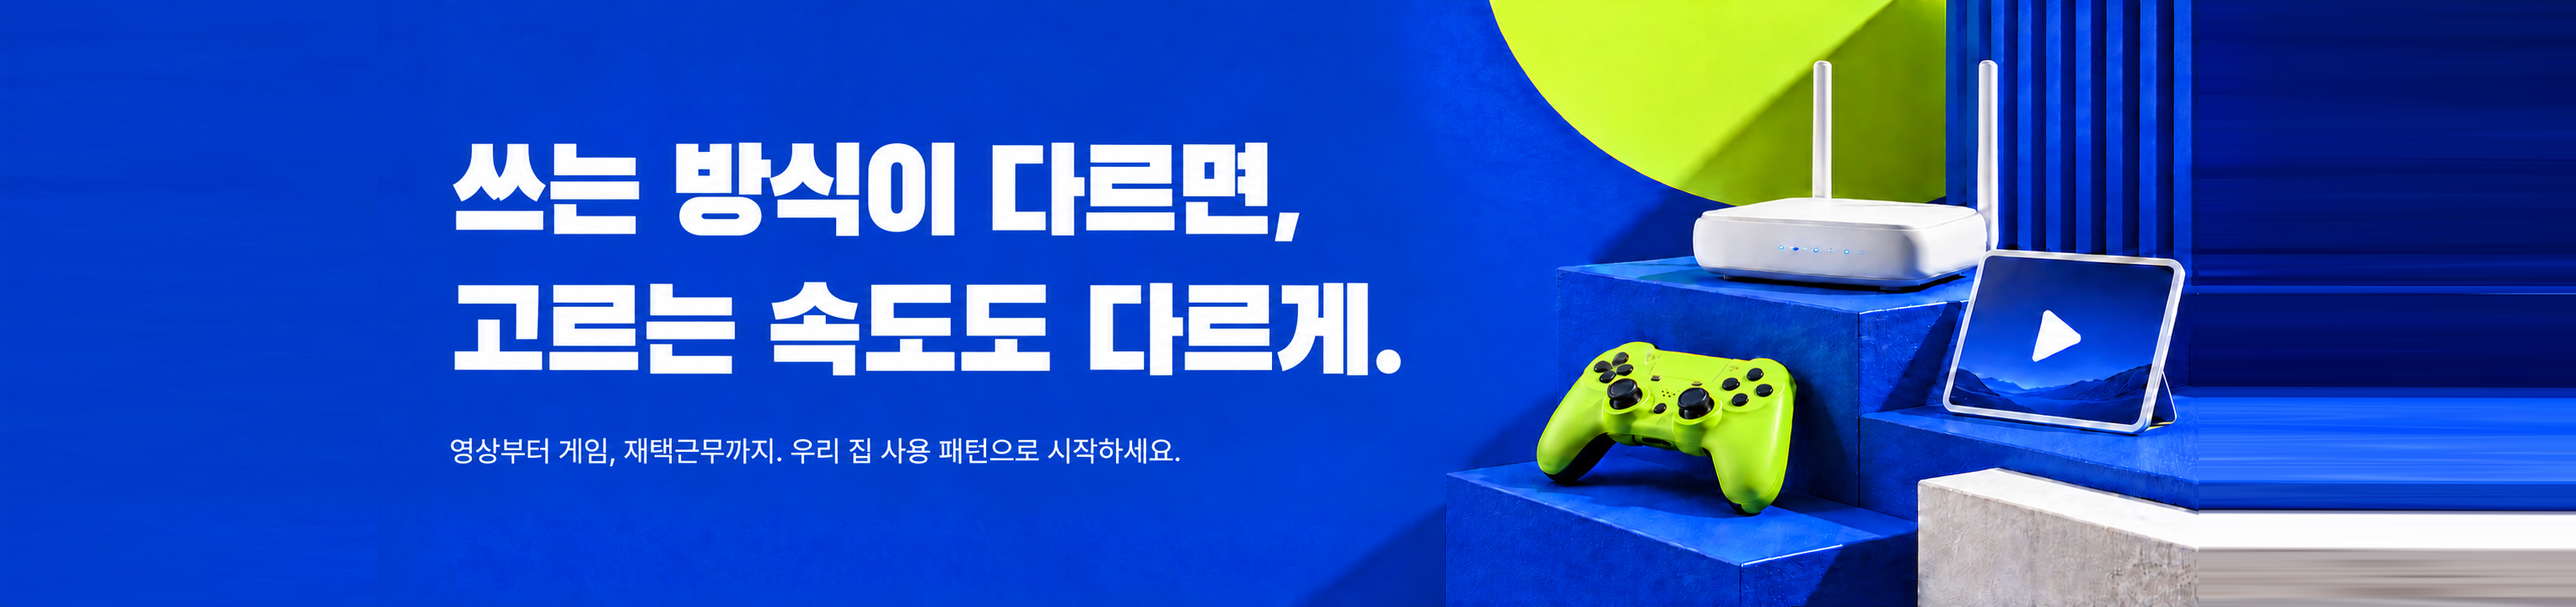
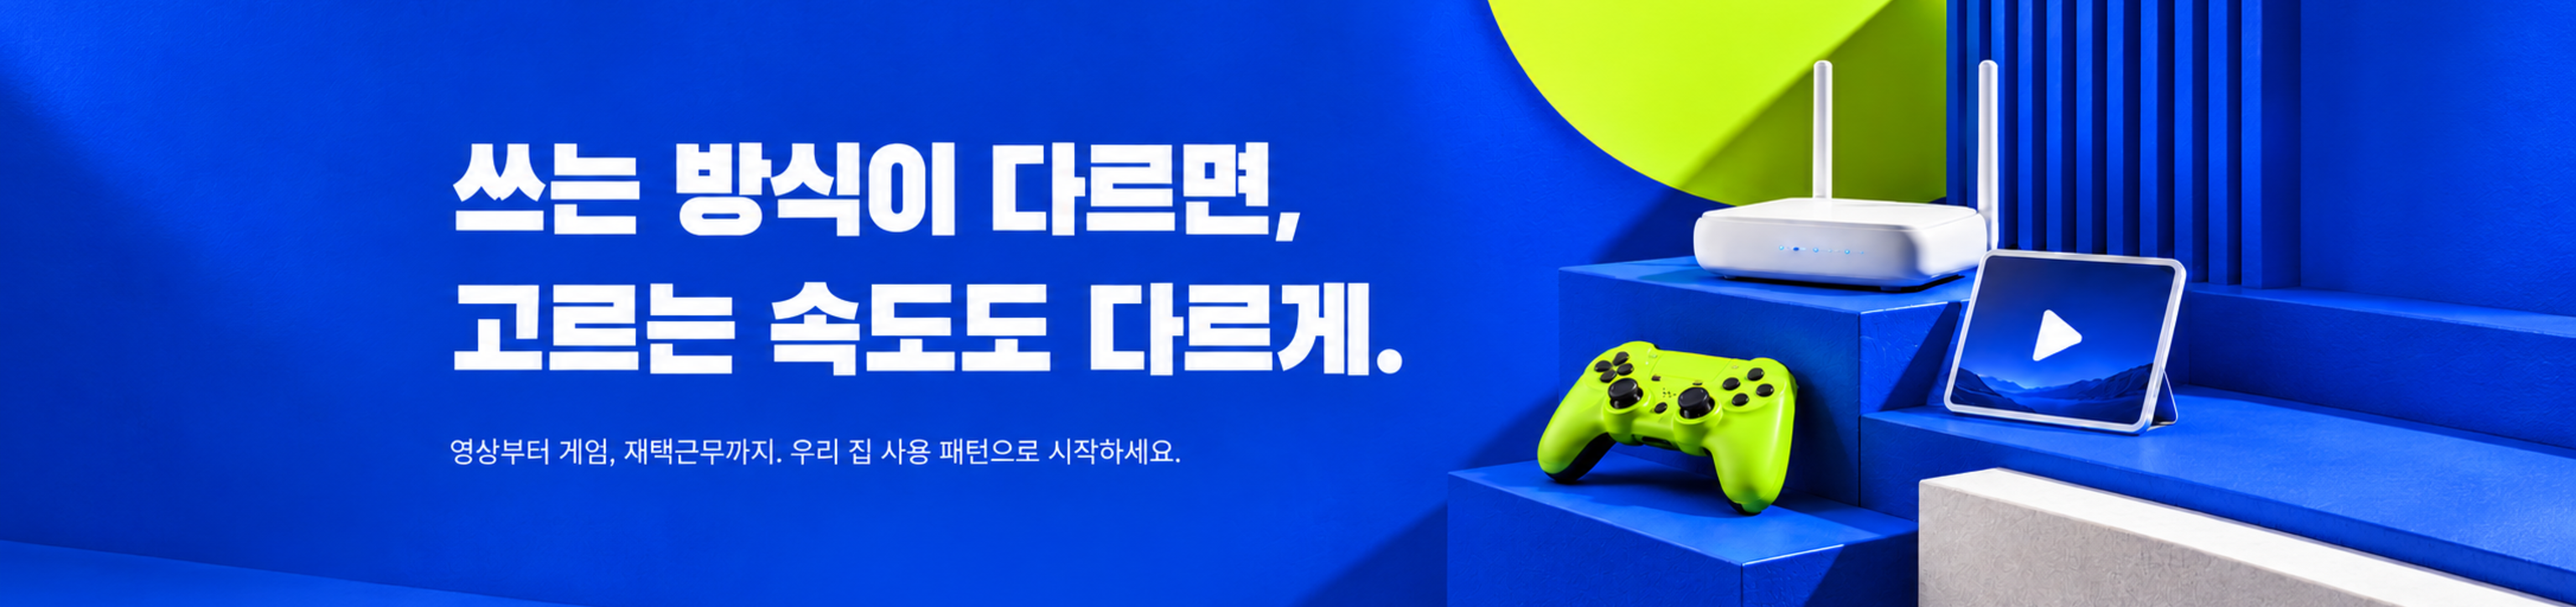
히어로 배너 이미지 수정본으로 교체

diff --git a/index.html b/index.html
@@ -65,16 +65,16 @@
     <div class="hs__track" id="hsTrack">
       <!-- 배너 이미지: images/hero-N.webp (PC 2880×976, 약 3:1) · hero-N-m.webp (모바일 1125×450). 같은 파일명으로 덮어쓰면 교체됨 -->
       <a class="hs__slide hs__slide--img" href="#matrix">
-        <img class="hs__bg" src="images/banner-1.webp?v=20261021b" alt="" aria-hidden="true">
-          <img src="images/banner-1.webp?v=20261021b" width="3072" height="724" alt="라이프스타일에 맞춘 속도 추천 배너">
+        <img class="hs__bg" src="images/banner-1.webp?v=20261021c" alt="" aria-hidden="true">
+          <img src="images/banner-1.webp?v=20261021c" width="3072" height="724" alt="라이프스타일에 맞춘 속도 추천 배너">
       </a>
       <button type="button" class="hs__slide hs__slide--img" data-open-apply>
-        <img class="hs__bg" src="images/banner-2.webp?v=20261021b" alt="" aria-hidden="true">
-          <img src="images/banner-2.webp?v=20261021b" width="3072" height="724" alt="인터넷·TV·휴대폰 결합 혜택 배너">
+        <img class="hs__bg" src="images/banner-2.webp?v=20261021c" alt="" aria-hidden="true">
+          <img src="images/banner-2.webp?v=20261021c" width="3072" height="724" alt="인터넷·TV·휴대폰 결합 혜택 배너">
       </button>
       <a class="hs__slide hs__slide--img" href="pages/review.html">
-        <img class="hs__bg" src="images/banner-3.webp?v=20261021b" alt="" aria-hidden="true">
-          <img src="images/banner-3.webp?v=20261021b" width="3072" height="724" alt="통신사 혜택 비교 배너">
+        <img class="hs__bg" src="images/banner-3.webp?v=20261021c" alt="" aria-hidden="true">
+          <img src="images/banner-3.webp?v=20261021c" width="3072" height="724" alt="통신사 혜택 비교 배너">
       </a>
     </div>
     <div class="hs__dots" id="hsDots" role="tablist" aria-label="배너 선택"></div>

diff --git a/internet.html b/internet.html
@@ -65,16 +65,16 @@
     <div class="hs__track" id="hsTrack">
       <!-- 배너 이미지: images/hero-N.webp (PC 2880×976, 약 3:1) · hero-N-m.webp (모바일 1125×450). 같은 파일명으로 덮어쓰면 교체됨 -->
       <a class="hs__slide hs__slide--img" href="#matrix">
-        <img class="hs__bg" src="images/banner-1.webp?v=20261021b" alt="" aria-hidden="true">
-          <img src="images/banner-1.webp?v=20261021b" width="3072" height="724" alt="라이프스타일에 맞춘 속도 추천 배너">
+        <img class="hs__bg" src="images/banner-1.webp?v=20261021c" alt="" aria-hidden="true">
+          <img src="images/banner-1.webp?v=20261021c" width="3072" height="724" alt="라이프스타일에 맞춘 속도 추천 배너">
       </a>
       <button type="button" class="hs__slide hs__slide--img" data-open-apply>
-        <img class="hs__bg" src="images/banner-2.webp?v=20261021b" alt="" aria-hidden="true">
-          <img src="images/banner-2.webp?v=20261021b" width="3072" height="724" alt="인터넷·TV·휴대폰 결합 혜택 배너">
+        <img class="hs__bg" src="images/banner-2.webp?v=20261021c" alt="" aria-hidden="true">
+          <img src="images/banner-2.webp?v=20261021c" width="3072" height="724" alt="인터넷·TV·휴대폰 결합 혜택 배너">
       </button>
       <a class="hs__slide hs__slide--img" href="pages/review.html">
-        <img class="hs__bg" src="images/banner-3.webp?v=20261021b" alt="" aria-hidden="true">
-          <img src="images/banner-3.webp?v=20261021b" width="3072" height="724" alt="통신사 혜택 비교 배너">
+        <img class="hs__bg" src="images/banner-3.webp?v=20261021c" alt="" aria-hidden="true">
+          <img src="images/banner-3.webp?v=20261021c" width="3072" height="724" alt="통신사 혜택 비교 배너">
       </a>
     </div>
     <div class="hs__dots" id="hsDots" role="tablist" aria-label="배너 선택"></div>
